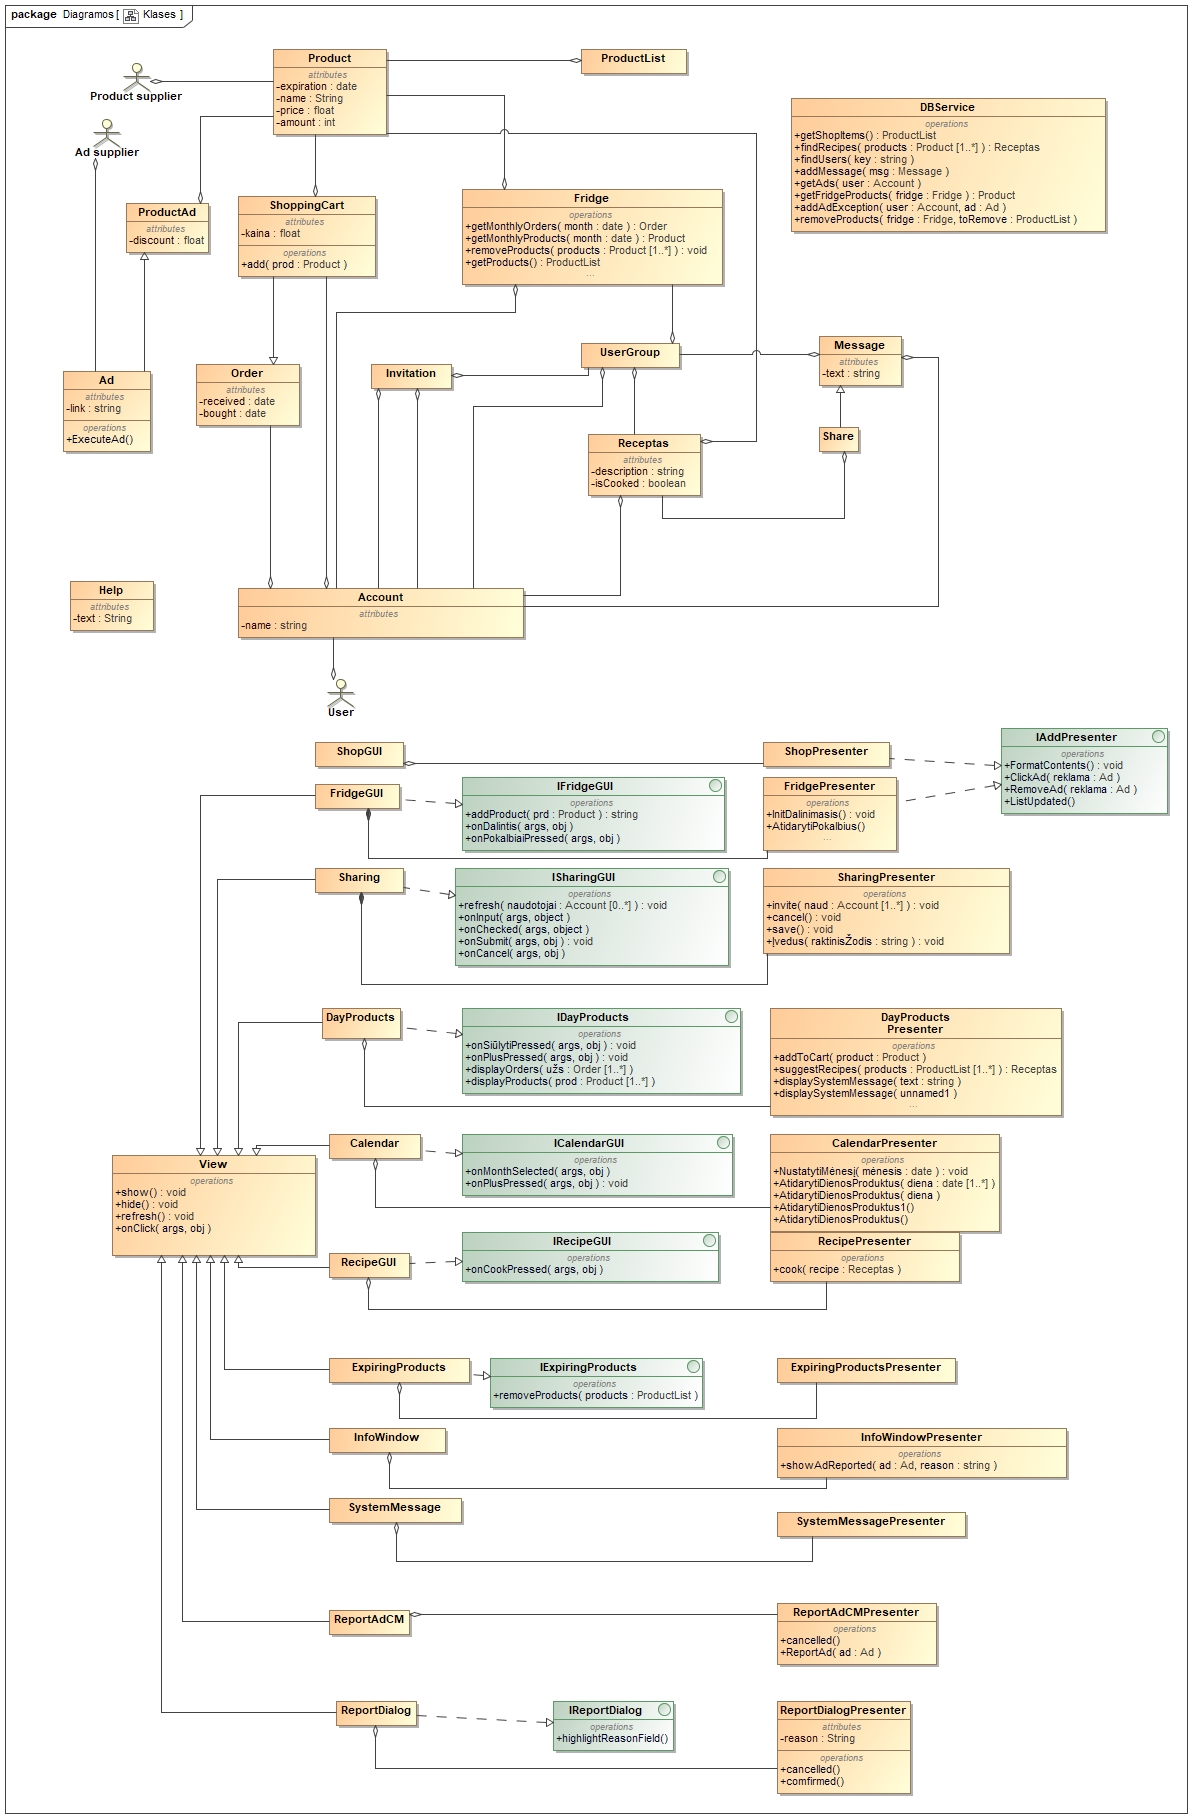
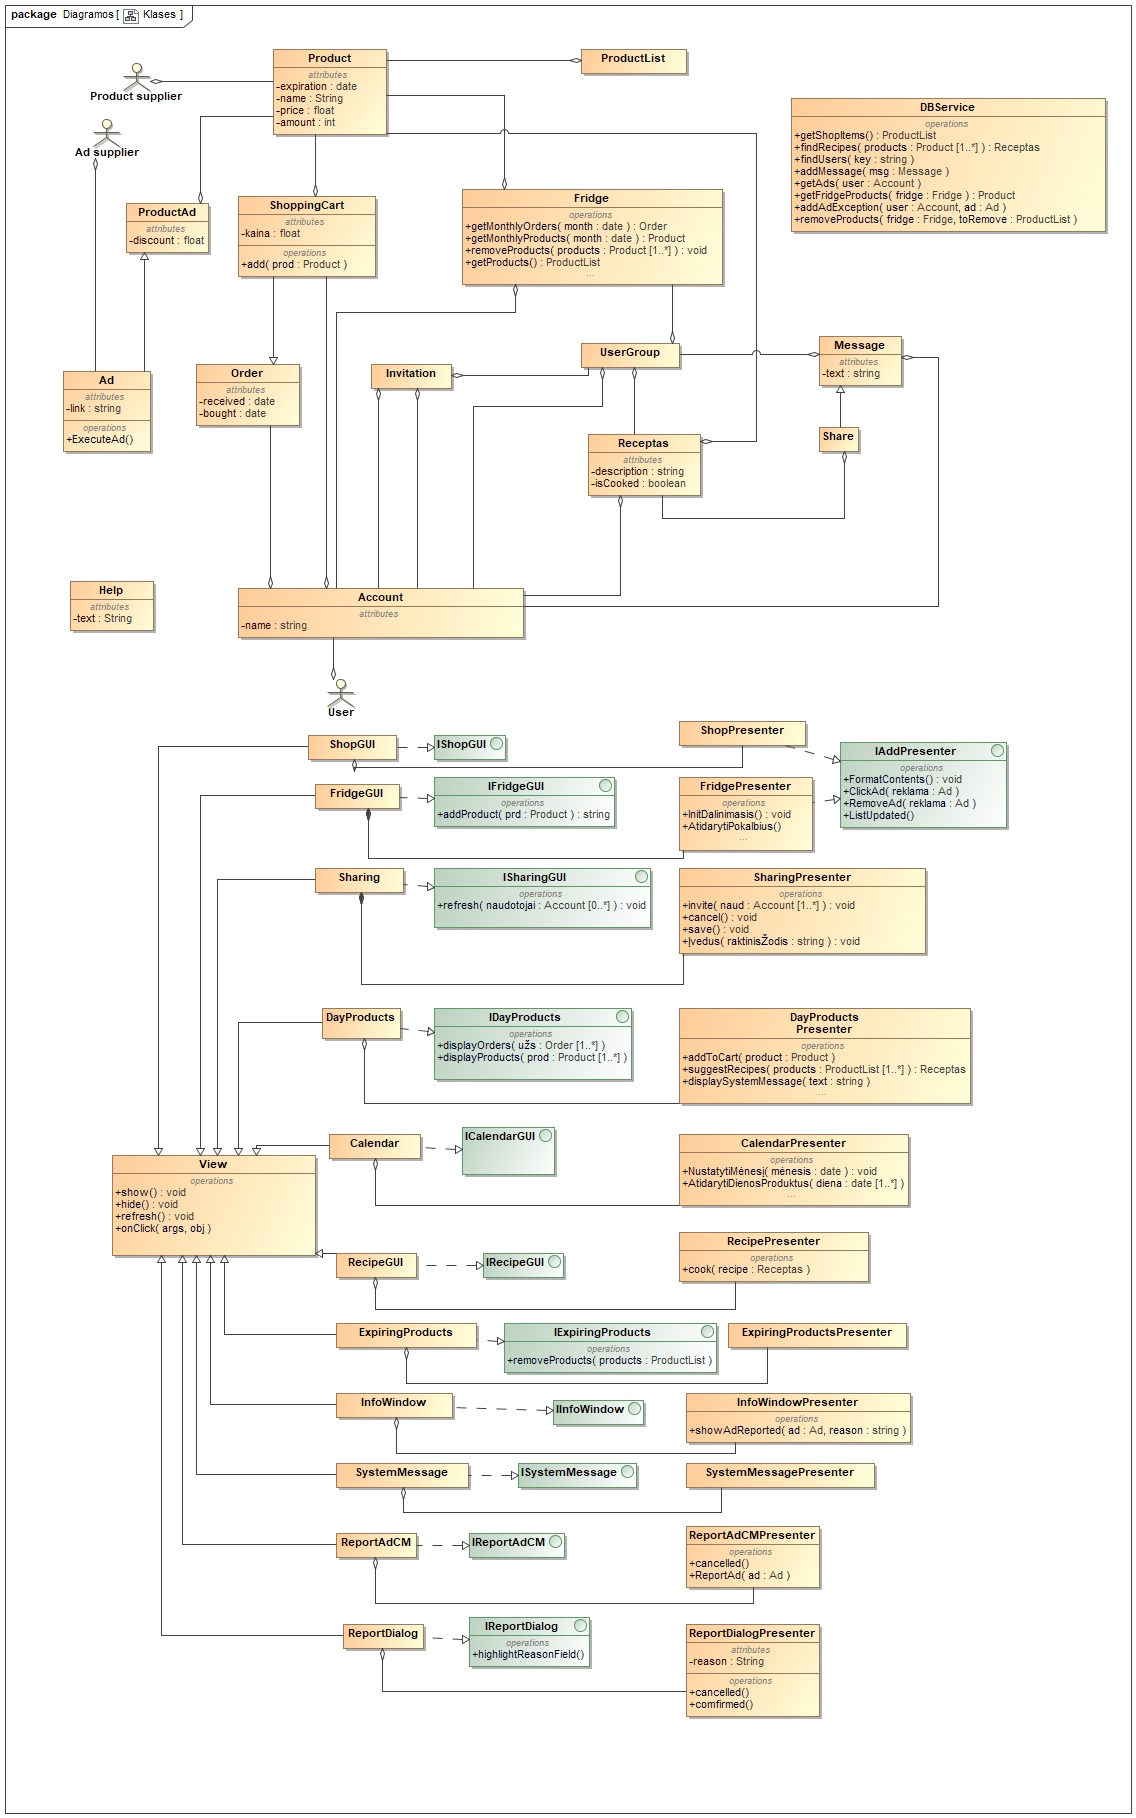
Typos, foto for presentation, diagram fix

diff --git a/Dokumentas.md b/Dokumentas.md
@@ -192,13 +192,10 @@ Klasių ir reikalavimų matricoje (figūra 2.3) nurodomi sąryšiai tarp užsako
 <!-- pagebreak -->
 # 3 Detalaus projektavimo peržiūra
 
-## Pakeitimai:
-Kiekviename punkte surašote pataisymus, tiek teksto, tiek sekų diagramos, tiek robustiškumo diagramos. Robustiškumo diagramas taisyti tik tada, kai žymiai keičiasi UC tekstas.
+Peržiūros metu komandos nariai apsikeitė projektuotomis užduotimis ir tikrino kitų darbą remdamiesi 10 peržiūros punktų iš vadovėlio "Use case driven object modeling with UML". Komandos nariai pastebėjo neišspręstas esmines projektines problemas ir pradėjo diskusijas, kurių metu buvo priimti projektinių sprendimų pakeitimai. Toliau pakeitimai pagal užduočių scenarijus.
 
 ## 3.1 Pranešimas dėl senstančių produktų
 - Sekų diagrama pakeista taip, kad joje matytųsi, kad presenteriai sukuria langų, su kuriais vartotojas dirba, instancijas ir juos pavaizduoja.
-- .
-
 
 ## 3.2 Dalinimasis šaldytuvu
 - Iš užduoties scenarijaus pašalintas pranešimo gavimas, kai pakvietas vartotojas priima kvietimą, ir tai perkelta į "Kvietimo Priėmimo" užduoties scenarijų
@@ -226,18 +223,18 @@ Kiekviename punkte surašote pataisymus, tiek teksto, tiek sekų diagramos, tiek
 
 ## 3.5 Reklamų peržiūra
 - Pakeista robustiškumo diagrama: nupigintos prekės pridėjimas į krepšelį perduotas kitam užduoties scenarijui; patikslinta, kad nukreipiant į 3 šalies reklamos turinį dalyvauja kitas aktorius; patikslinta, kad sis. administratoriai ir reklamos tiekėjai mato pranešimus apie netinkamą reklamą informaciniame lange.
-- .
 
 ## 3.6 Pakeisti projektiniai sprendimai
-- Nuspresta iš MVC architektūros pereiti prie MVP, nes MVP labiau priimtina komandai, nes turime daugiau patirties, ir dažniau taikoma praktikoje
-- Nuspresta programuoti anglų kalba, nes ši kalba labiau unifikuota
-- Nuspresta vietoje daug "Event Handler" naudoti tik vieną "Event Handler" kiekvienam GUI elementui, kuris kviečia sistemos logiką ("Sanity check" rezultatas, dalyvavo programuotojai)
--
+- Nuspręsta iš MVC architektūros pereiti prie MVP, nes MVP labiau priimtina komandai, nes turime daugiau patirties, ir dažniau taikoma praktikoje
+- Nuspręsta programuoti anglų kalba, nes ši kalba labiau unifikuota
+- Nuspręsta vietoje daug "Event Handler" naudoti tik vieną "Event Handler" kiekvienam GUI elementui, kuris kviečia sistemos logiką ("Sanity check" rezultatas, dalyvavo programuotojai)
+- Nuspręsta naudoti NTP serverius (network time protocol), kad klientai galėtų sinchronizuotis su serveriu ir gauti pranešimus realiu laiku.
 
 ## 3.7 Pokyčiai statinei struktūrai
 - ICalendarGUI papildytas dviem metodais: displayOrders(Order[]) ir displayProducts(ProductList).
 - DayProductsPresenter papildytas metodu openRecipesWindow(Recipe[]), kuris atidaro receptų langą su nurodytais receptais.
 - Sudėti trūkstami grąžinami tipai prie klasių operacijų.
+
 <!-- pagebreak -->
 # 4. Testavimo planas ir scenarijai
 
@@ -245,8 +242,7 @@ Kiekviename punkte surašote pataisymus, tiek teksto, tiek sekų diagramos, tiek
 
 **Tikslas**
 
-Rasti su funkciniais reikalavimais susijusius defektus kaip įmanoma anksčiau ir kokybiškai bei
-laiku ištaisyti.
+Rasti su funkciniais reikalavimais susijusius defektus kaip įmanoma anksčiau ir kokybiškai bei laiku ištaisyti.
 
 **Testavimo būdai ir prielaidos**
 
